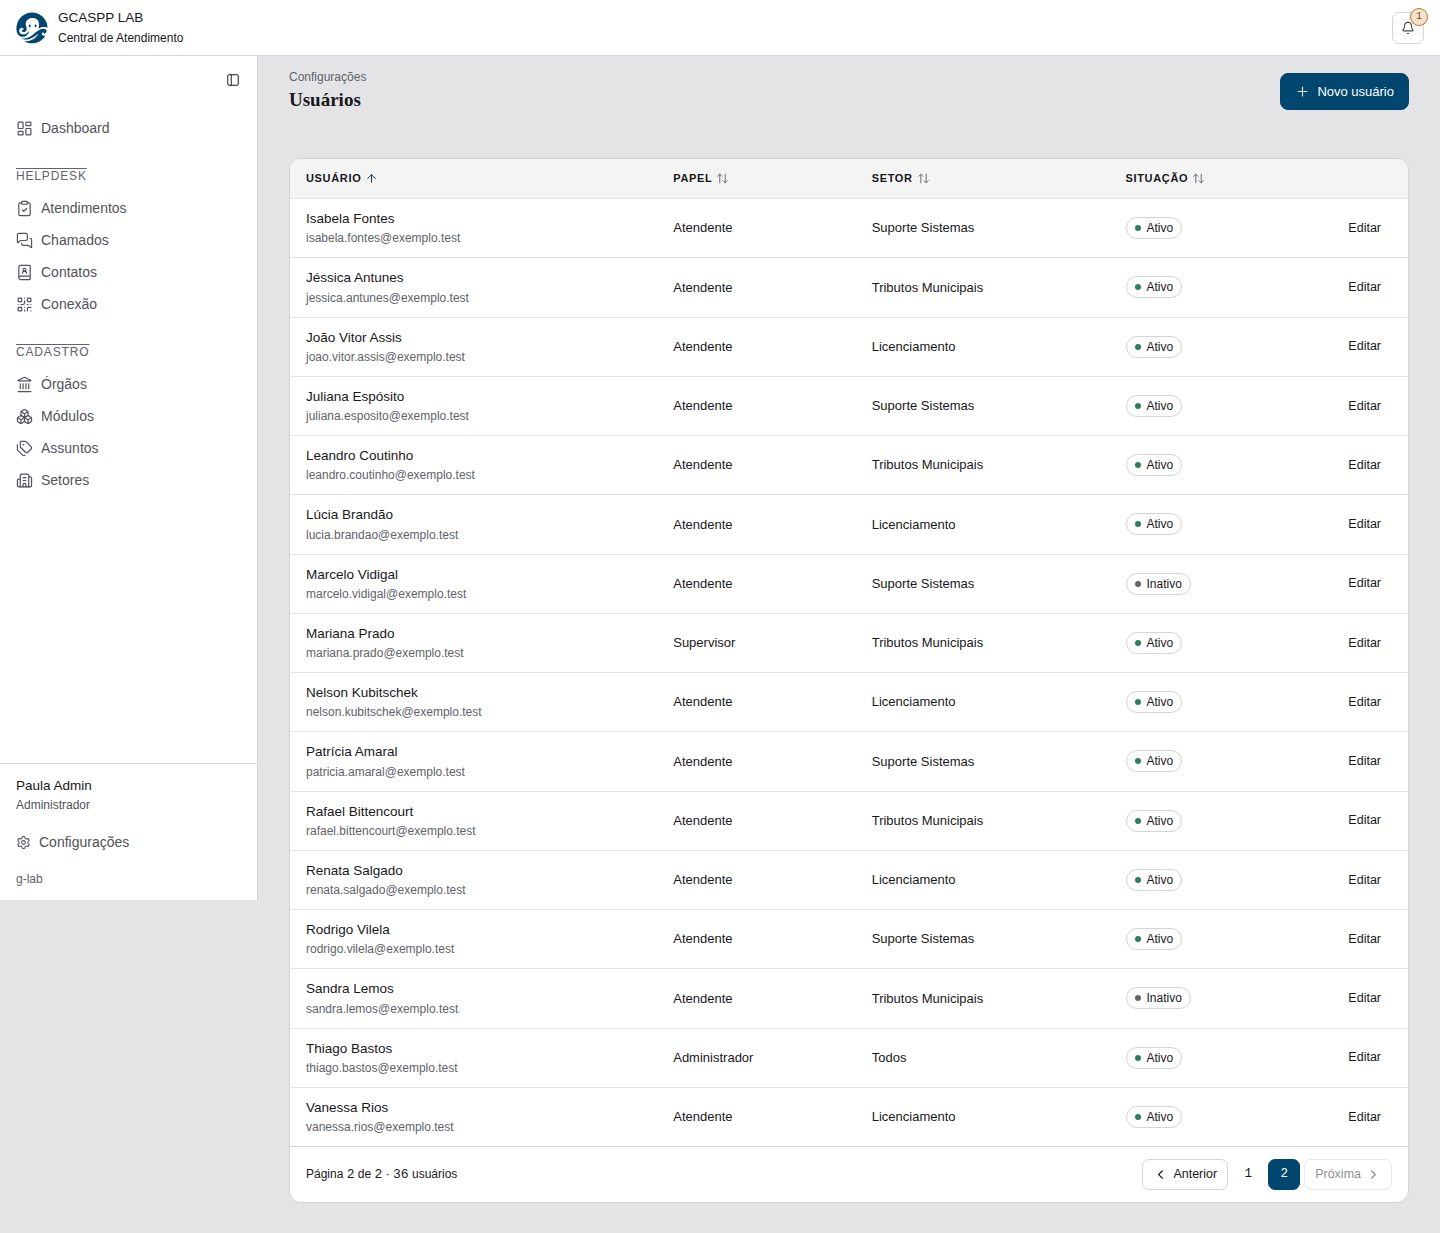
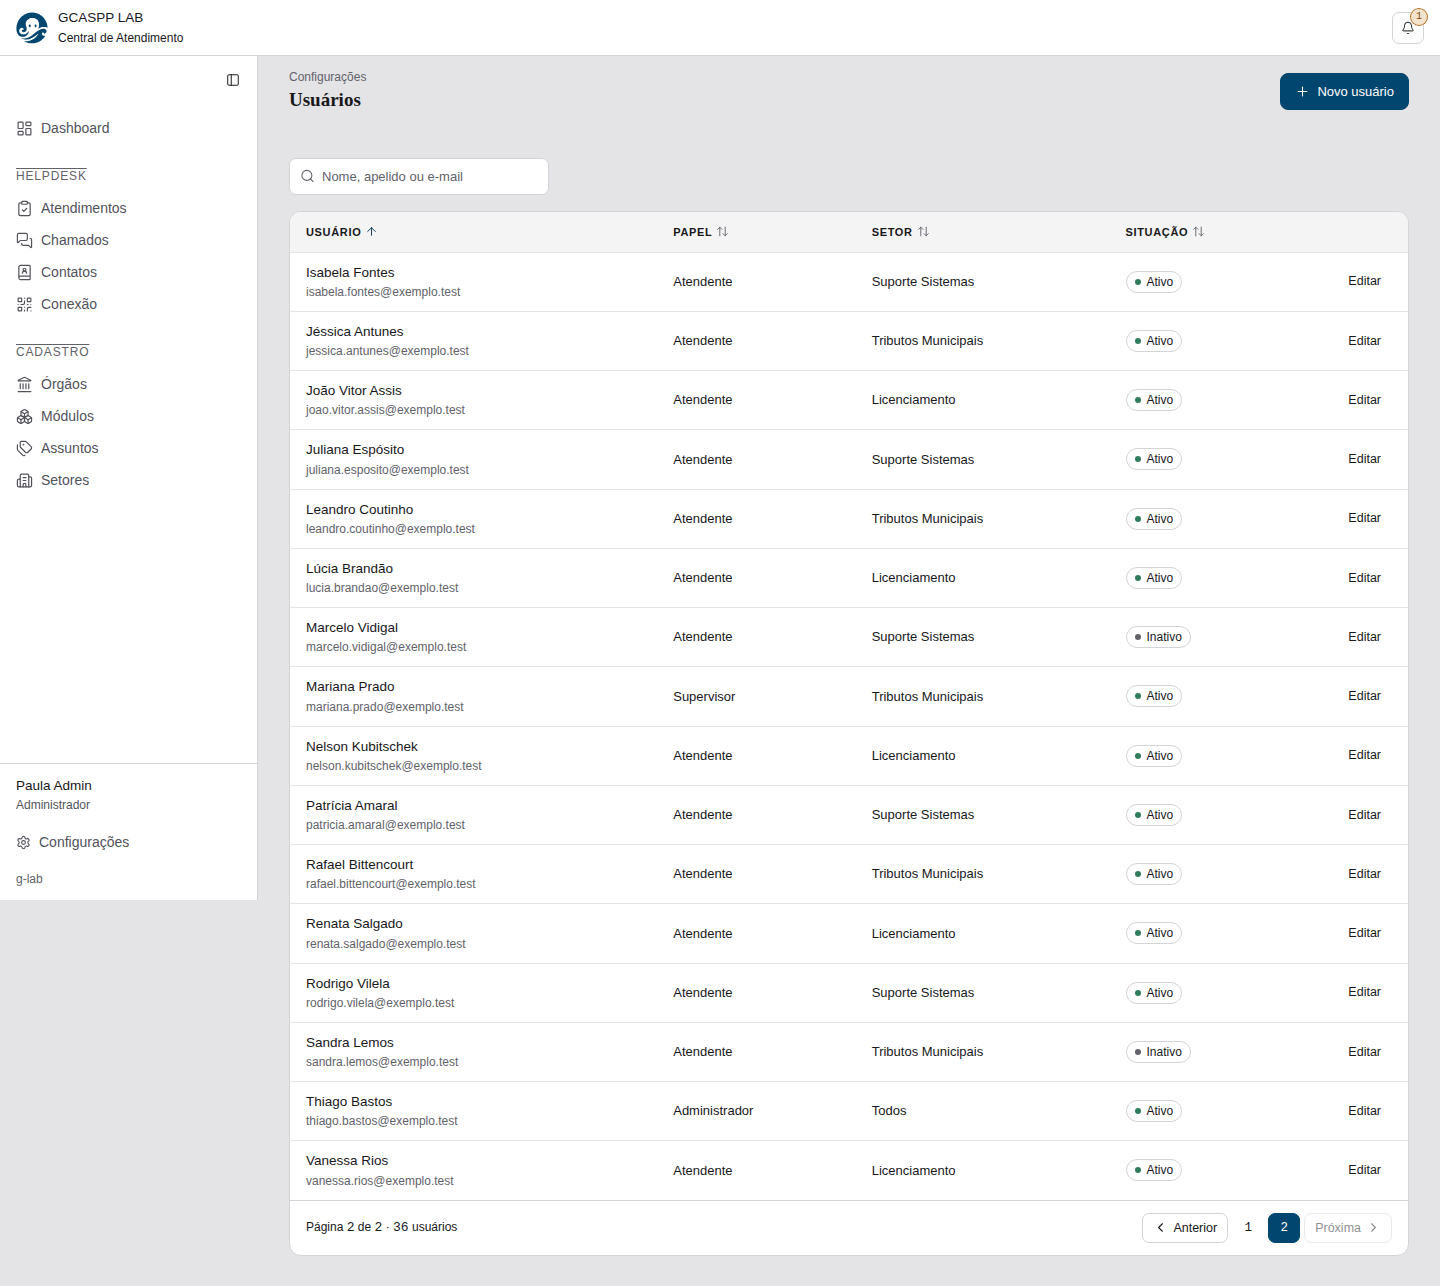
prototype(#130): busca de usuários no servidor (?busca=), com capturas novas

diff --git a/frontend/src/pages/admin/UsersPage.tsx b/frontend/src/pages/admin/UsersPage.tsx
@@ -1,6 +1,6 @@
 import { zodResolver } from '@hookform/resolvers/zod'
 import { Plus, Users } from 'lucide-react'
-import { type ChangeEvent, useEffect, useState } from 'react'
+import { type ChangeEvent, useDeferredValue, useEffect, useState } from 'react'
 import { Controller, useForm, useWatch } from 'react-hook-form'
 import { toast } from 'sonner'
 import { z } from 'zod'
@@ -9,6 +9,7 @@ import { Pagination } from '@/components/Pagination'
 import { SortableTableHead } from '@/components/SortableTableHead'
 import { PasswordInput } from '@/components/PasswordInput'
 import { PageContent, Topbar } from '@/components/Topbar'
+import { SearchBox } from '@/components/SearchBox'
 import { Badge } from '@/components/ui/badge'
 import { Button } from '@/components/ui/button'
 import { Card } from '@/components/ui/card'
@@ -47,6 +48,7 @@ import {
   useSectors,
   useUpdateUser,
   userColumns,
+  useUserFilterInAddress,
   useUsersPage,
 } from '@/lib/admin'
 import { usePagedList } from '@/lib/paging'
@@ -346,10 +348,13 @@ function UserSheet({
 }
 
 // PROTÓTIPO #130: lista administrativa em páginas de 20, com a ordem nas colunas de
-// dados; página, coluna e direção ficam no endereço (?pagina=, ?ordem=, ?direcao=).
+// dados e a busca de Contatos; busca, página, coluna e direção ficam no endereço
+// (?busca=, ?pagina=, ?ordem=, ?direcao=).
 export default function UsersPage() {
+  const { query, setQuery } = useUserFilterInAddress()
+  const deferredQuery = useDeferredValue(query)
   const list = usePagedList(userColumns, defaultUserColumn)
-  const { data, isPending, isPlaceholderData } = useUsersPage(list.request)
+  const { data, isPending, isPlaceholderData } = useUsersPage(deferredQuery, list.request)
   const { data: sectors = [] } = useSectors()
   const users = data?.items ?? []
   const served = data && !isPlaceholderData ? data.page : undefined
@@ -387,6 +392,12 @@ export default function UsersPage() {
         }
       />
       <PageContent>
+        <SearchBox
+          value={query}
+          onChange={setQuery}
+          label="Buscar usuários"
+          placeholder="Nome, apelido ou e-mail"
+        />
         <Card className="gap-0 py-0">
           {users.length > 0 ? (
             <Table>
@@ -448,7 +459,11 @@ export default function UsersPage() {
                 <EmptyMedia>
                   <Users strokeWidth={1.7} aria-hidden />
                 </EmptyMedia>
-                <EmptyDescription>Nenhum usuário cadastrado.</EmptyDescription>
+                <EmptyDescription>
+                  {deferredQuery.trim()
+                    ? 'Nenhum usuário encontrado.'
+                    : 'Nenhum usuário cadastrado.'}
+                </EmptyDescription>
               </Empty>
             )
           )}

diff --git a/frontend/src/lib/admin.ts b/frontend/src/lib/admin.ts
@@ -2,7 +2,7 @@ import { keepPreviousData, useMutation, useQuery, useQueryClient } from '@tansta
 import { api } from '@/lib/api'
 import type { Role, User } from '@/lib/auth'
 import { normalizeSearch } from '@/lib/format'
-import { type Page, type PageRequest, pageParams } from '@/lib/paging'
+import { type Page, type PageRequest, pageParams, useQueryState } from '@/lib/paging'
 
 export type Sector = {
   id: number
@@ -48,10 +48,28 @@ export const userColumns: Record<string, UserSort> = {
 }
 export const defaultUserColumn = 'usuario'
 
-export function useUsersPage(request: PageRequest<UserSort>) {
+// PROTÓTIPO #130: a busca fica no endereço (?busca=), no servidor como em Contatos, e
+// mudar o termo volta à página 1 sem empilhar histórico a cada tecla.
+export function useUserFilterInAddress() {
+  const { params, update } = useQueryState()
+  return {
+    query: params.get('busca') ?? '',
+    setQuery: (value: string) => update({ busca: value === '' ? null : value, pagina: null }, true),
+  }
+}
+
+// Busca por nome, apelido ou e-mail, em páginas de 20 feitas no servidor; o termo vai
+// como ?q= (o mesmo parâmetro de Contatos) junto da página e da ordem.
+export function useUsersPage(query: string, request: PageRequest<UserSort>) {
   return useQuery({
-    queryKey: [...usersKey, 'page', request.page, request.sort, request.direction],
-    queryFn: () => api<Page<AdminUser>>(`/users?${new URLSearchParams(pageParams(request))}`),
+    queryKey: [...usersKey, 'page', query.trim(), request.page, request.sort, request.direction],
+    queryFn: () => {
+      const params = new URLSearchParams(pageParams(request))
+      if (query.trim() !== '') {
+        params.set('q', query.trim())
+      }
+      return api<Page<AdminUser>>(`/users?${params}`)
+    },
     placeholderData: keepPreviousData,
   })
 }

diff --git a/frontend/src/prototype/fakeApi.ts b/frontend/src/prototype/fakeApi.ts
@@ -122,15 +122,24 @@ const sectorName = (id: number | null) =>
   id === null ? '' : (sectors.find((sector) => sector.id === id)?.name ?? '')
 
 // Mesmo contrato dos Contatos: itens da página, total, página devolvida (a última,
-// se a pedida passou dela) e 20 por página.
+// se a pedida passou dela) e 20 por página. A busca (?q=) filtra por nome, apelido ou
+// e-mail antes de contar e paginar.
 function userPage(query: URLSearchParams) {
-  // Nomes que a API recebe do frontend (pageParams): page, sort, direction.
+  // Nomes que a API recebe do frontend (pageParams): page, sort, direction; e a busca, q.
   const sort = query.get('sort') ?? 'name'
   const direction = query.get('direction') === 'desc' ? 'desc' : 'asc'
+  const term = normalize(query.get('q') ?? '')
   const pageSize = 20
   const sign = direction === 'asc' ? 1 : -1
 
-  const sorted = [...users].sort((a, b) => {
+  const found =
+    term === ''
+      ? users
+      : users.filter((user) =>
+          [user.name, user.nickname, user.email].some((field) => normalize(field).includes(term)),
+        )
+
+  const sorted = [...found].sort((a, b) => {
     let by = 0
     if (sort === 'role') {
       by = roleRank[a.role] - roleRank[b.role]
